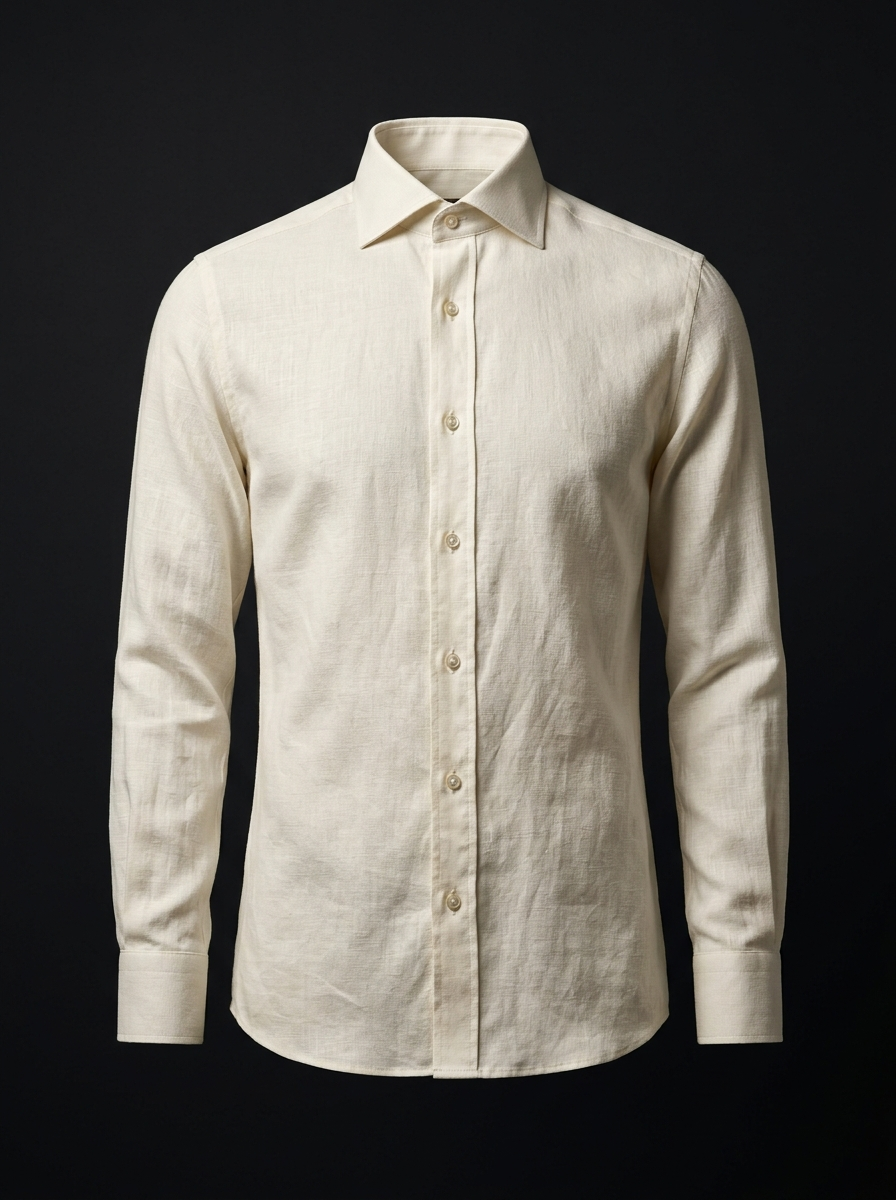
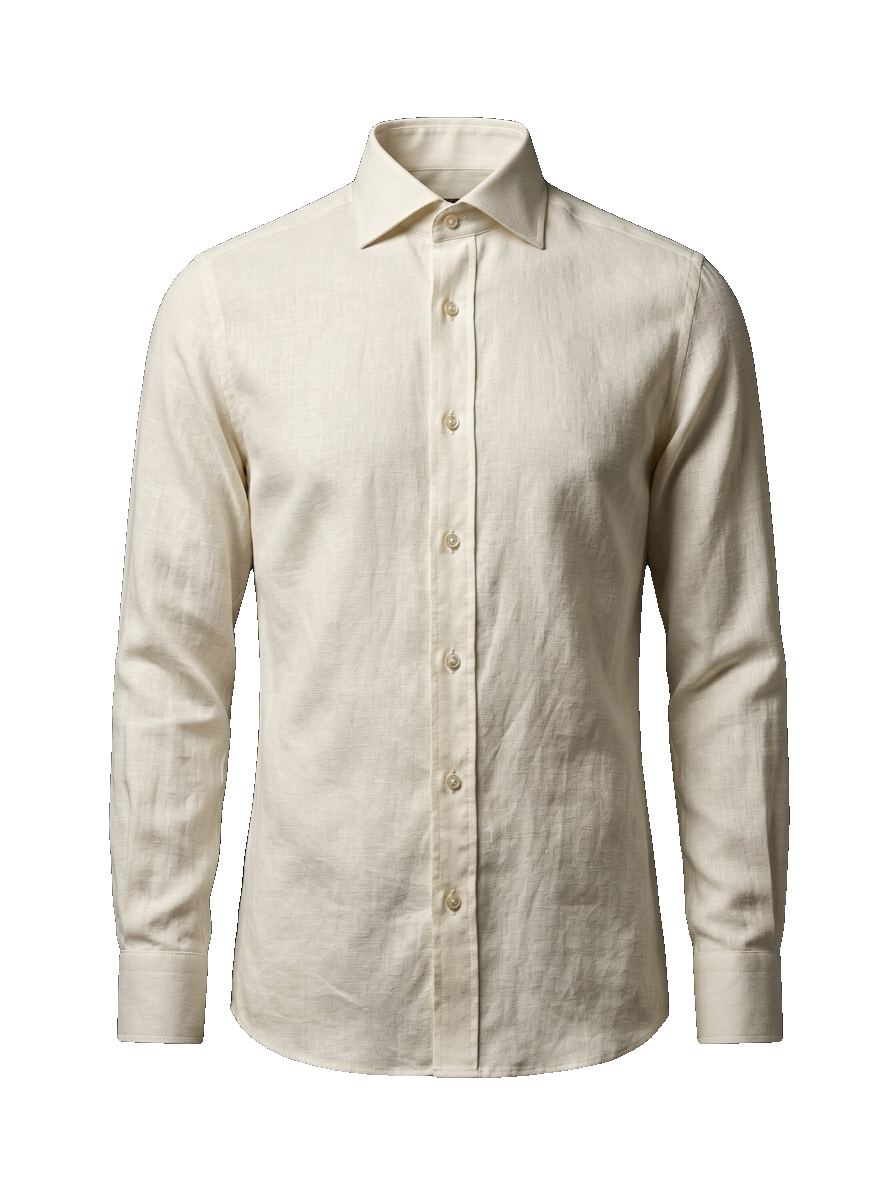
fix(v11.1): frosted Navbar legibility, RGBA transparent cutouts for all 7 shirt studio photos, and pt-24 clearance in ShirtBuilderSection

diff --git a/src/components/StudioShirtStage.tsx b/src/components/StudioShirtStage.tsx
@@ -97,16 +97,16 @@ export function StudioShirtStage({
     <div
       onPointerMove={handlePointerMove}
       onPointerLeave={handlePointerLeave}
-      className="relative flex h-full w-full items-center justify-center overflow-hidden rounded-3xl bg-[#09090D]"
+      className="relative flex h-full w-full items-center justify-center overflow-hidden rounded-3xl bg-transparent"
       style={{ perspective: "1100px" }}
     >
-      {/* Subtle studio softbox halo behind the garment */}
+      {/* Subtle studio softbox halo behind the floating garment */}
       <div
         aria-hidden="true"
         className="pointer-events-none absolute inset-0"
         style={{
           background:
-            "radial-gradient(circle at 50% 42%, rgba(255,255,255,0.09) 0%, rgba(148,163,184,0.03) 40%, rgba(9,9,13,0.92) 78%)",
+            "radial-gradient(circle at 50% 44%, rgba(255,255,255,0.10) 0%, rgba(148,163,184,0.03) 44%, transparent 74%)",
         }}
       />
 
@@ -119,9 +119,9 @@ export function StudioShirtStage({
             : { type: "spring", stiffness: 120, damping: 22, mass: 0.9 }
         }
         style={{ transformStyle: "preserve-3d" }}
-        className="relative flex aspect-[3/4] h-[94%] max-h-[540px] max-w-full items-center justify-center select-none"
+        className="relative flex aspect-[3/4] h-[94%] max-h-[500px] max-w-full items-center justify-center select-none"
       >
-        {/* Crossfading photorealistic studio shirt */}
+        {/* Crossfading photorealistic studio shirt (transparent RGBA) */}
         <AnimatePresence mode="sync">
           <motion.img
             key={shirt.id}
@@ -132,13 +132,7 @@ export function StudioShirtStage({
             animate={{ opacity: 1 }}
             exit={isMotionPaused ? undefined : { opacity: 0 }}
             transition={{ duration: 0.42, ease: [0.22, 1, 0.36, 1] }}
-            className="pointer-events-none absolute inset-0 h-full w-full object-contain"
-            style={{
-              WebkitMaskImage:
-                "radial-gradient(ellipse 92% 94% at 50% 50%, #000 72%, transparent 100%)",
-              maskImage:
-                "radial-gradient(ellipse 92% 94% at 50% 50%, #000 72%, transparent 100%)",
-            }}
+            className="pointer-events-none absolute inset-0 h-full w-full object-contain drop-shadow-[0_24px_38px_rgba(0,0,0,0.6)]"
           />
         </AnimatePresence>
 
@@ -247,12 +241,6 @@ export function StudioShirtStage({
           )}
         </AnimatePresence>
       </motion.div>
-
-      {/* Soft perimeter vignette so studio photo blends seamlessly */}
-      <div
-        aria-hidden="true"
-        className="pointer-events-none absolute inset-0 rounded-3xl shadow-[inset_0_0_60px_rgba(9,9,13,0.85)]"
-      />
 
       {/* STEP 2 OVERLAY: Floating Collar Detail Pill */}
       <AnimatePresence>

diff --git a/src/components/CatalogSection.tsx b/src/components/CatalogSection.tsx
@@ -76,24 +76,26 @@ function CommercialShirtCard({ shirt }: { shirt: CatalogShirt }) {
 
   return (
     <article className="group liquid-glass flex flex-col overflow-hidden rounded-2xl text-white transition-all duration-300 hover:border-white/28 hover:bg-white/[0.075]">
-      {/* Compact Photorealistic Studio Stage (h-40 = 160px) */}
-      <div className="relative h-40 w-full overflow-hidden bg-[#09090D]">
+      {/* Compact Transparent Studio Stage (h-40 = 160px) */}
+      <div className="relative h-40 w-full overflow-hidden bg-transparent">
+        <div
+          aria-hidden="true"
+          className="pointer-events-none absolute inset-4 rounded-full opacity-45 blur-2xl"
+          style={{
+            background:
+              "radial-gradient(circle, rgba(255,255,255,0.14) 0%, transparent 72%)",
+          }}
+        />
         <Image
           src={shirt.studioImage}
           alt={`${shirt.name} — ${shirt.composition}`}
           fill
           sizes="(min-width: 1024px) 25vw, (min-width: 640px) 50vw, 100vw"
-          className={`object-contain px-3 pt-2 ${
+          className={`object-contain px-3 pt-2 drop-shadow-[0_14px_22px_rgba(0,0,0,0.55)] ${
             isMotionPaused
               ? ""
               : "transition-transform duration-500 ease-out group-hover:scale-[1.06]"
           }`}
-        />
-
-        {/* Soft bottom fade into card glass */}
-        <div
-          aria-hidden="true"
-          className="pointer-events-none absolute inset-x-0 bottom-0 h-8 bg-gradient-to-t from-[#09090D]/80 to-transparent"
         />
 
         {/* Floating Ref & Badge */}

diff --git a/src/components/Navbar.tsx b/src/components/Navbar.tsx
@@ -60,8 +60,10 @@ export function Navbar() {
       <header className="fixed top-0 inset-x-0 z-50 px-3.5 pt-3.5 sm:px-6 sm:pt-4 pointer-events-none">
         <nav
           aria-label="Navegación principal"
-          className={`pointer-events-auto relative mx-auto flex max-w-6xl items-center justify-between overflow-hidden rounded-2xl px-4 py-2.5 sm:px-6 sm:py-3 transition-all duration-300 ${
-            isScrolled ? "liquid-glass-active" : "liquid-glass"
+          className={`pointer-events-auto relative mx-auto flex max-w-6xl items-center justify-between overflow-hidden rounded-2xl bg-[#0B0B0E]/80 px-4 py-2.5 backdrop-blur-2xl sm:px-6 sm:py-3 transition-all duration-300 ${
+            isScrolled
+              ? "liquid-glass-active !bg-[#0B0B0E]/85 border-white/25 shadow-[inset_0_1px_1px_rgba(255,255,255,0.34),0_20px_50px_rgba(0,0,0,0.55)]"
+              : "liquid-glass !bg-[#0B0B0E]/80 border-white/20"
           }`}
         >
           {/* Full 4-Sided Perimeter Interior Stitch (Shirt Cuff Detail) */}

diff --git a/src/components/ShirtBuilderSection.tsx b/src/components/ShirtBuilderSection.tsx
@@ -227,11 +227,11 @@ export function ShirtBuilderSection() {
 
   return (
     <section
-      id="armar"
+      id="arma-tu-camisa"
       aria-labelledby="builder-heading"
-      className="relative scroll-mt-20 bg-transparent text-[#F5F5F7]"
+      className="relative scroll-mt-4 bg-transparent text-[#F5F5F7]"
     >
-      <div className="mx-auto flex min-h-[calc(100svh-72px)] max-w-7xl flex-col justify-between gap-3 px-5 py-8 sm:px-8 lg:h-[calc(100svh-64px)] lg:min-h-[660px] lg:max-h-[860px] lg:px-12 lg:py-5 xl:pr-24">
+      <div className="mx-auto flex min-h-[100svh] max-w-7xl flex-col justify-between gap-3 px-5 pt-24 pb-6 sm:px-8 lg:h-[100svh] lg:min-h-[700px] lg:max-h-[920px] lg:px-12 lg:pt-24 lg:pb-5 xl:pr-24">
         {/* TOP ROW: Compact title + live fabric meta on left, 4-step stepper on right */}
         <div className="flex flex-col gap-3 lg:flex-row lg:items-center lg:justify-between">
           <div className="flex flex-wrap items-baseline gap-x-4 gap-y-1">
